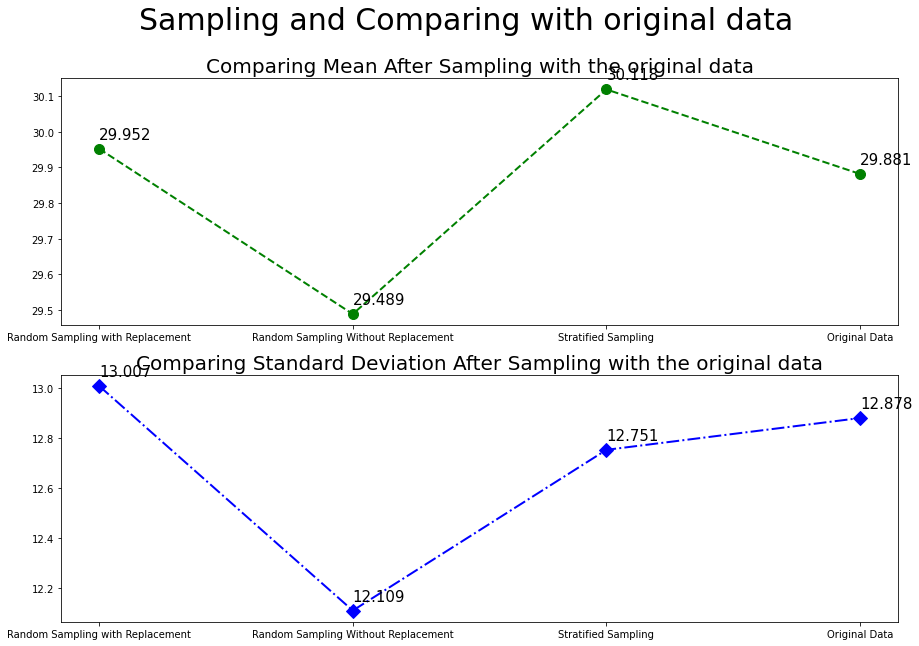
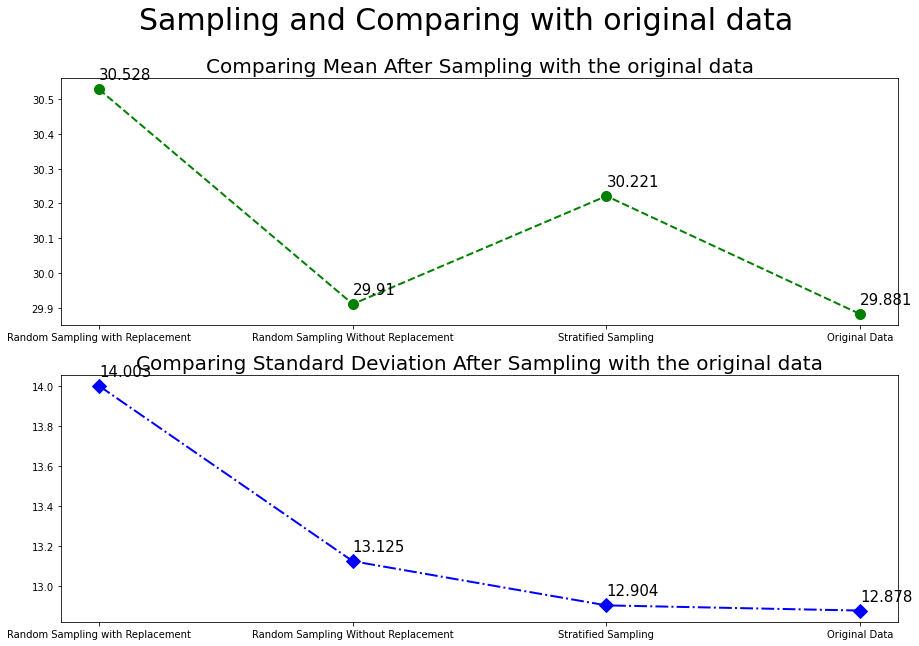
correct stratified method

diff --git a/lab_5/README.md b/lab_5/README.md
@@ -424,11 +424,20 @@ def randomSampleNoReplace(age):
     return [age[i] for i in sample]
 
 def stratifiedSampling(age):
-    interval = len(age)//3
-    age.sort()
-    sample = randomSampleNoReplace(age[:interval])
-    sample.extend(randomSampleNoReplace(age[interval:2*interval]))
-    sample.extend(randomSampleNoReplace(age[2*interval:]))
+    maxx = max(age)
+    minn = min(age)
+    width = (maxx-minn)/3
+    strata = [[]]*3
+    for i in age:
+        if i <= minn+width:
+            strata[0].append(i)
+        elif i <= minn+2*width:
+            strata[1].append(i)
+        else:
+            strata[2].append(i)            
+    sample = []
+    for i in strata:
+        sample += randomSampleNoReplace(i)
     return sample
 
 replacement = randomSampleReplace(data['age'])
